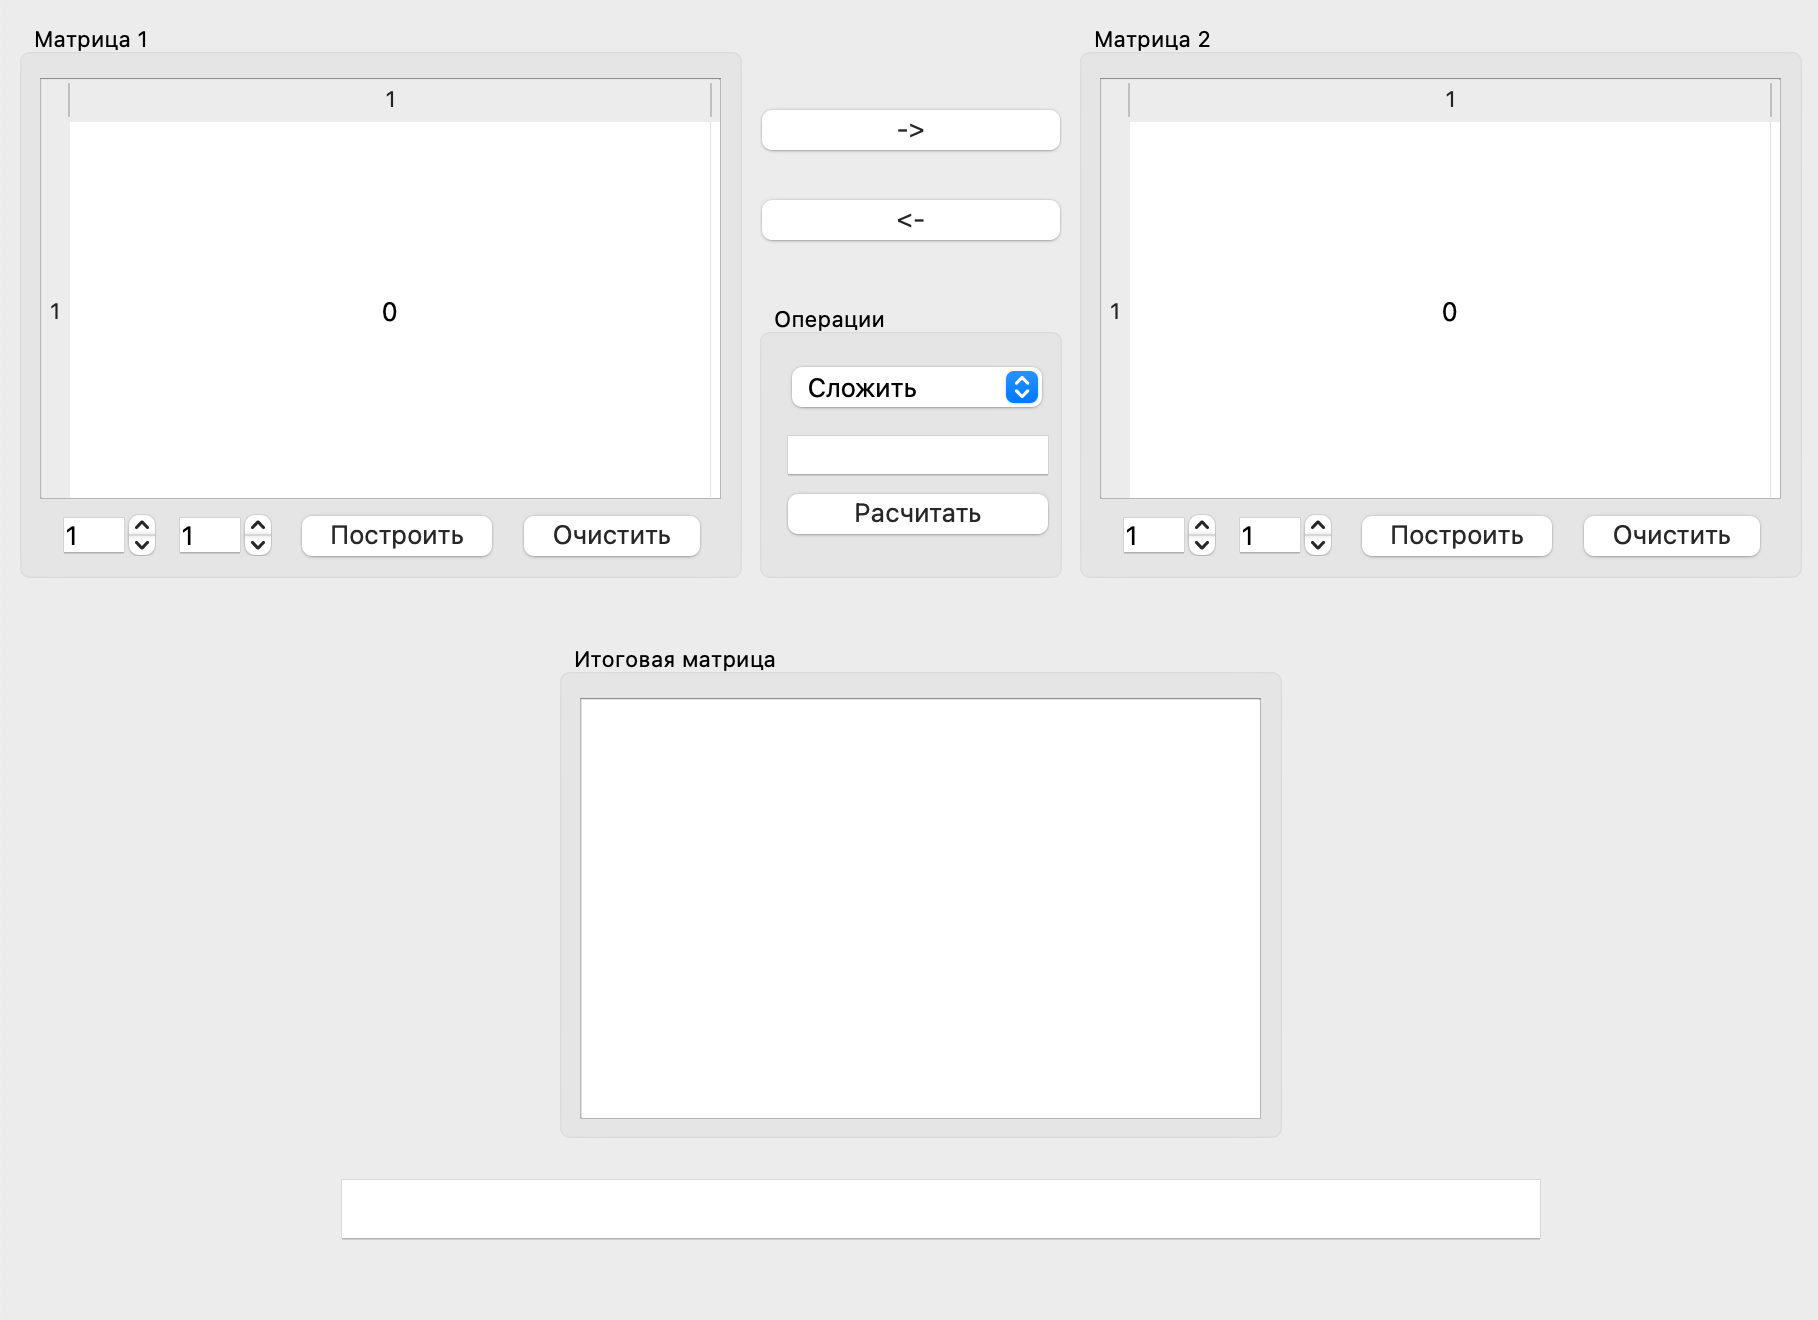
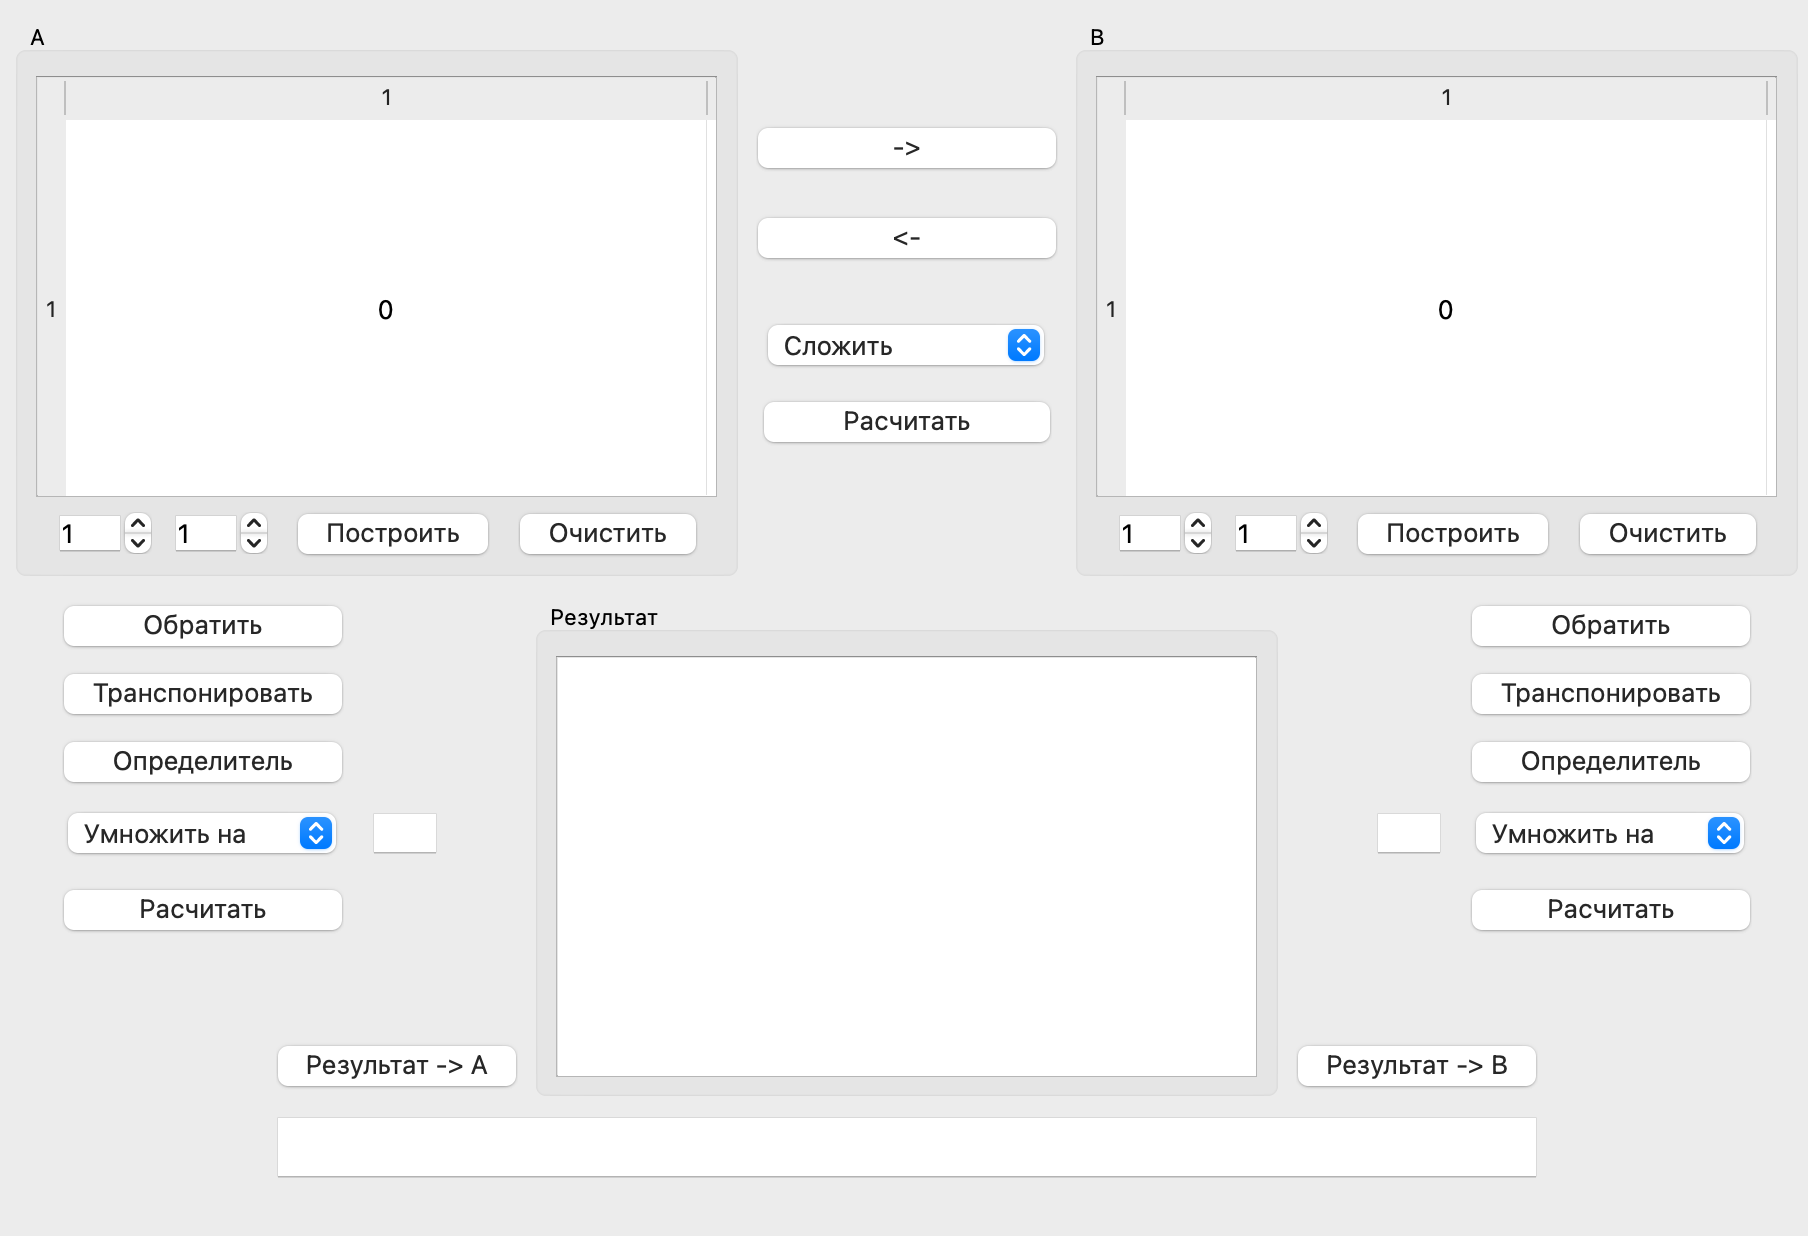
Added new program screenshot

diff --git a/MatrixCalculator_ru_UA.ts b/MatrixCalculator_ru_UA.ts
@@ -16,8 +16,8 @@
     </message>
     <message>
         <location filename="mainwindow.ui" line="180"/>
-        <source>&lt;--&gt;</source>
-        <oldsource>&lt;-</oldsource>
+        <source>-&gt;</source>
+        <oldsource>&lt;--&gt;</oldsource>
         <translation type="unfinished"></translation>
     </message>
     <message>
@@ -37,72 +37,77 @@
         <translation type="unfinished"></translation>
     </message>
     <message>
-        <location filename="mainwindow.ui" line="196"/>
+        <location filename="mainwindow.ui" line="187"/>
+        <source>&lt;-</source>
+        <translation type="unfinished"></translation>
+    </message>
+    <message>
+        <location filename="mainwindow.ui" line="203"/>
         <source>Результат</source>
         <translation type="unfinished"></translation>
     </message>
     <message>
-        <location filename="mainwindow.ui" line="322"/>
-        <location filename="mainwindow.ui" line="326"/>
+        <location filename="mainwindow.ui" line="329"/>
+        <location filename="mainwindow.ui" line="333"/>
         <source>Сложить</source>
         <translation type="unfinished"></translation>
     </message>
     <message>
-        <location filename="mainwindow.ui" line="331"/>
+        <location filename="mainwindow.ui" line="338"/>
         <source>Вычесть</source>
         <translation type="unfinished"></translation>
     </message>
     <message>
-        <location filename="mainwindow.ui" line="336"/>
+        <location filename="mainwindow.ui" line="343"/>
         <source>Умножить</source>
         <translation type="unfinished"></translation>
     </message>
     <message>
-        <location filename="mainwindow.ui" line="253"/>
-        <location filename="mainwindow.ui" line="257"/>
-        <location filename="mainwindow.ui" line="384"/>
-        <location filename="mainwindow.ui" line="388"/>
+        <location filename="mainwindow.ui" line="260"/>
+        <location filename="mainwindow.ui" line="264"/>
+        <location filename="mainwindow.ui" line="391"/>
+        <location filename="mainwindow.ui" line="395"/>
         <source>Умножить на</source>
         <translation type="unfinished"></translation>
     </message>
     <message>
-        <location filename="mainwindow.ui" line="262"/>
-        <location filename="mainwindow.ui" line="393"/>
+        <location filename="mainwindow.ui" line="269"/>
+        <location filename="mainwindow.ui" line="400"/>
         <source>Поделить на</source>
         <translation type="unfinished"></translation>
     </message>
     <message>
-        <location filename="mainwindow.ui" line="293"/>
+        <location filename="mainwindow.ui" line="300"/>
         <source>Результат -&gt; A</source>
         <translation type="unfinished"></translation>
     </message>
     <message>
-        <location filename="mainwindow.ui" line="306"/>
+        <location filename="mainwindow.ui" line="313"/>
         <source>Результат -&gt; B</source>
         <translation type="unfinished"></translation>
     </message>
     <message>
-        <location filename="mainwindow.ui" line="277"/>
-        <location filename="mainwindow.ui" line="363"/>
+        <location filename="mainwindow.ui" line="284"/>
+        <location filename="mainwindow.ui" line="370"/>
         <source>Определитель</source>
         <translation type="unfinished"></translation>
     </message>
     <message>
-        <location filename="mainwindow.ui" line="270"/>
-        <location filename="mainwindow.ui" line="344"/>
-        <location filename="mainwindow.ui" line="401"/>
+        <location filename="mainwindow.ui" line="277"/>
+        <location filename="mainwindow.ui" line="351"/>
+        <location filename="mainwindow.ui" line="408"/>
         <source>Расчитать</source>
+        <translation type="unfinished"></translation>
+    </message>
+    <message>
+        <location filename="mainwindow.ui" line="246"/>
+        <location filename="mainwindow.ui" line="384"/>
+        <source>Транспонировать</source>
         <translation type="unfinished"></translation>
     </message>
     <message>
         <location filename="mainwindow.ui" line="239"/>
         <location filename="mainwindow.ui" line="377"/>
-        <source>Транспонировать</source>
-        <translation type="unfinished"></translation>
-    </message>
-    <message>
-        <location filename="mainwindow.ui" line="232"/>
-        <location filename="mainwindow.ui" line="370"/>
         <source>Обратить</source>
         <translation type="unfinished"></translation>
     </message>

diff --git a/mainwindow.cpp b/mainwindow.cpp
@@ -117,7 +117,7 @@ void MainWindow::on_matrix_calc_2_clicked()
 }
 
 
-// Clone
+// Moving
 void MainWindow::on_result_to_A_clicked()
 {
     m1.clone(outputM);
@@ -126,5 +126,17 @@ void MainWindow::on_result_to_A_clicked()
 void MainWindow::on_result_to_B_clicked()
 {
     m2.clone(outputM);
+}
+
+void MainWindow::on_toRight_clicked()
+{
+    m2.clone(m1);
+    m1.build(m1.size);
+}
+
+void MainWindow::on_toLeft_clicked()
+{
+    m1.clone(m2);
+    m2.build(m2.size);
 }
 

diff --git a/mainwindow.h b/mainwindow.h
@@ -38,9 +38,11 @@ private slots:
     void on_matrixButon_determinant_2_clicked();
     void on_matrix_calc_2_clicked();
 
+    // Moving
     void on_result_to_A_clicked();
-
     void on_result_to_B_clicked();
+    void on_toRight_clicked();
+    void on_toLeft_clicked();
 
 private:
     Ui::MainWindow *ui;
